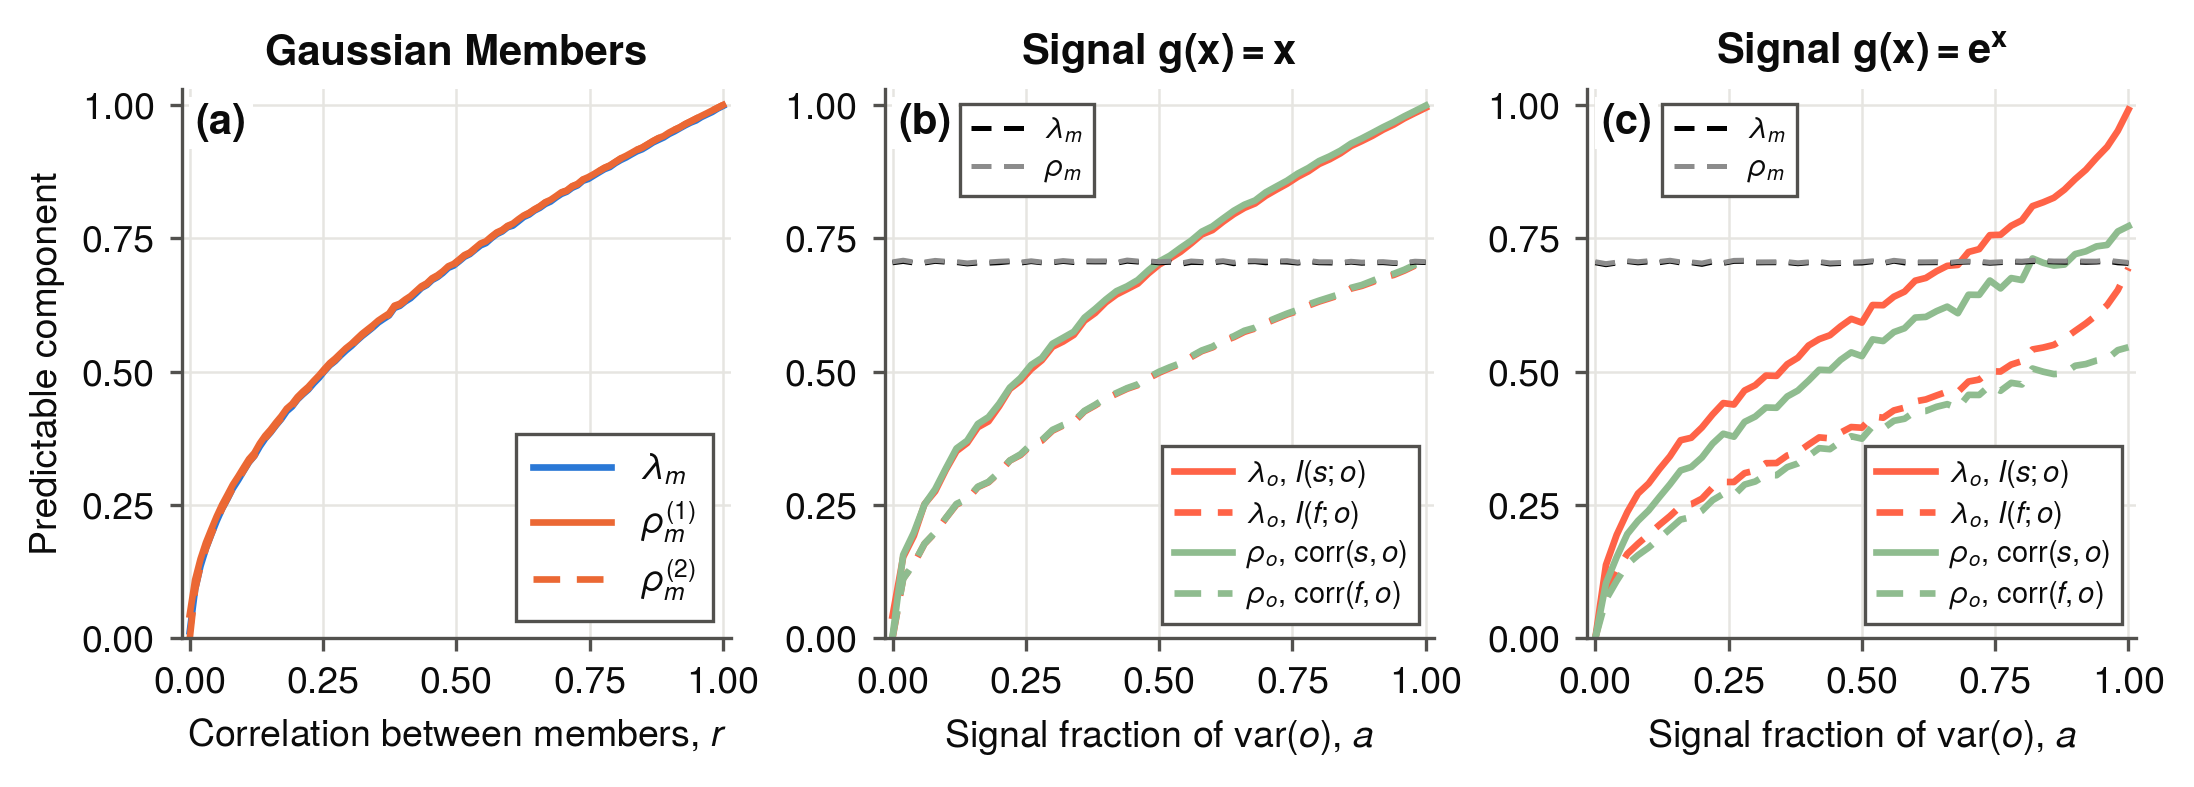
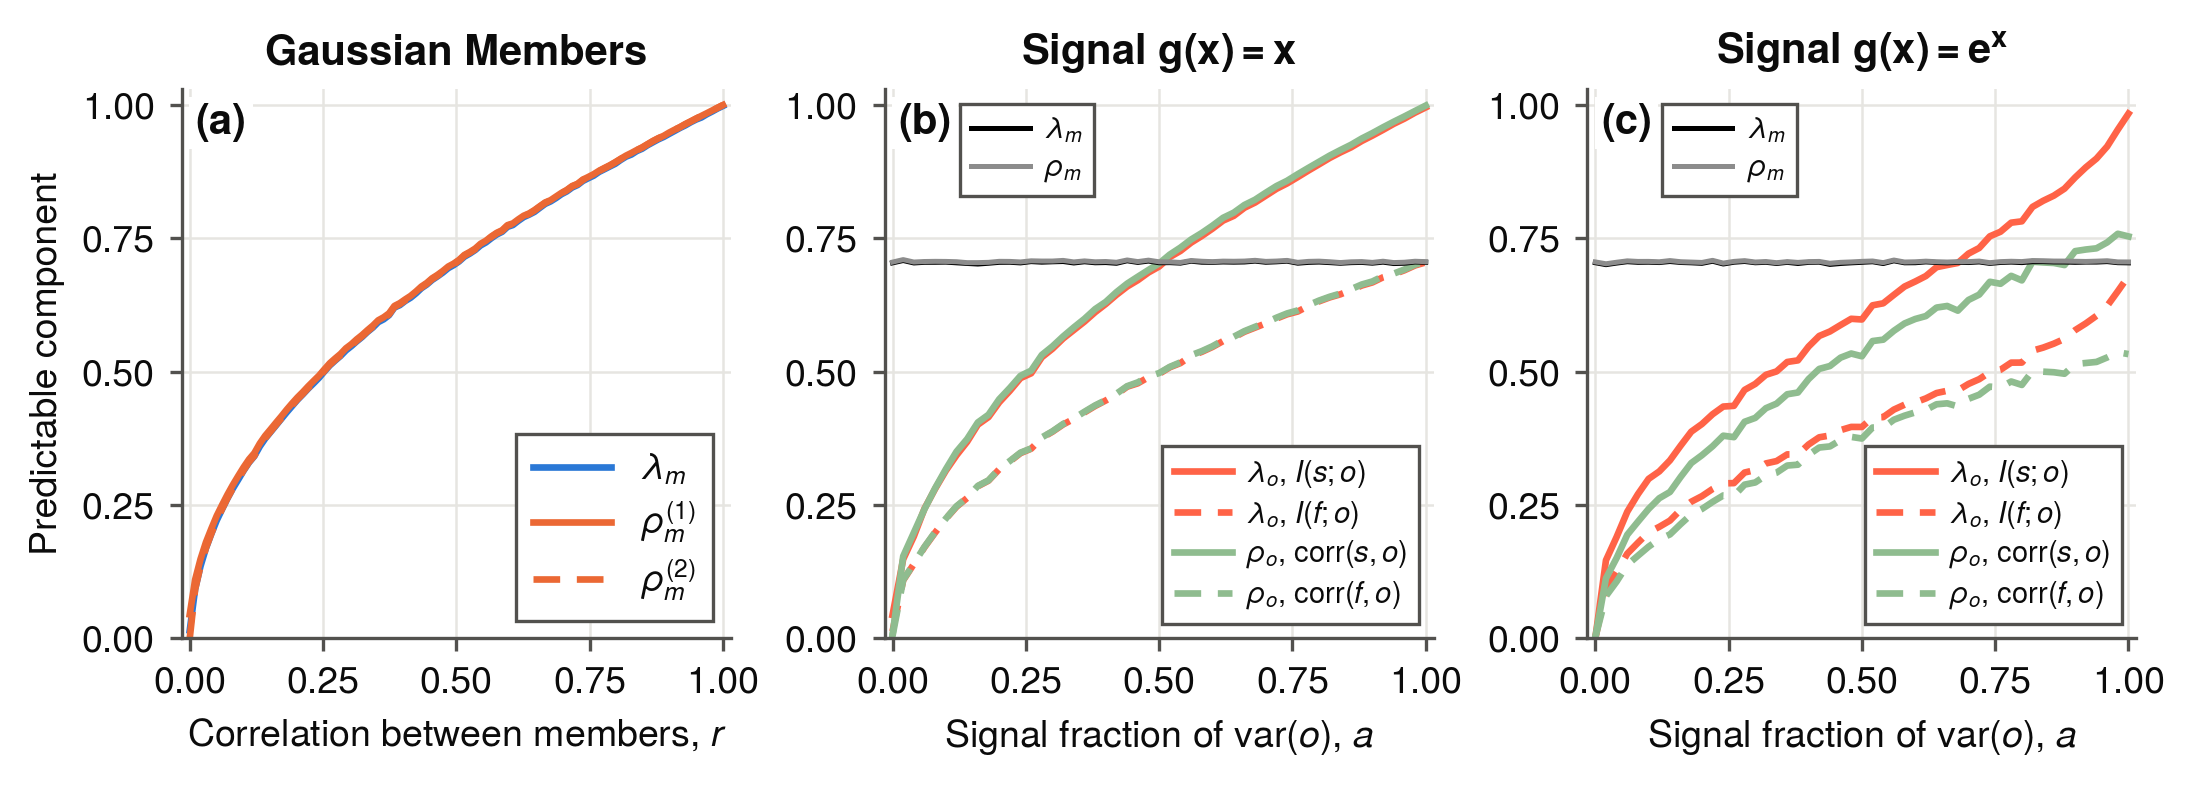
gaussian-array-lambda-rho: T = 40000, solid lambda_m/rho_m reference lines
T = 40000 (N = 500), pool capped at 7 workers (peak 1.5 GB each, ~11 min).
lambda_m tracks rho_m^(2) within 0.003; for g = e^x lambda_o(s) 0.98 vs rho_o
0.75 at a = 1. The ensemble's lambda_m and rho_m in (b, c) are now solid black
and grey.

diff --git a/scripts/gaussian_demo.py b/scripts/gaussian_demo.py
@@ -3,7 +3,7 @@
     python scripts/gaussian_demo.py [--recompute] [--seed S]
         -> figures/main-text/{png,pdf}/gaussian-array-lambda-rho, curves in figures/data/*.npz
 
-N = 500 members of T = 30000 standard-normal draws in every panel; z_0, z_n, x, eta ~ N(0, 1)
+N = 500 members of T = 40000 standard-normal draws in every panel; z_0, z_n, x, eta ~ N(0, 1)
 independent, s the member mean, s_-n the mean of the other N - 1.
 (a) Gaussian members f_n = sqrt(r) z_0 + sqrt(1 - r) z_n, pairwise correlation r (the notebook's
     multivariate draw, in distribution). lambda_m from I(s_-n; f), pooled (the jugaad flattening
@@ -15,11 +15,11 @@ independent, s the member mean, s_-n the mean of the other N - 1.
     lambda_o from I(s; o) and from I(f; o) (o tiled against every member); rho_o = corr(s, o) and
     the pooled corr(f, o). A member is at most sqrt(R_M) correlated with x, so the (f; o) curves
     stop near sqrt(0.5). The ensemble's own lambda_m and rho_m (= rho_m^(2)) are drawn for
-    reference, dashed black and grey; they do not depend on a.
+    reference, solid black and grey; they do not depend on a.
 Bins: Knuth's rule, sized as in the production estimator (o and s_-n on their T values, the
 members on all N T). Every I is the plug-in MI minus the mean of P_NULL time-permutation nulls,
-lambda = sqrt(1 - 2^(-2 I)). Runs in ~8 min with 8 worker processes over the curve points
-($SNP_DEMO_JOBS; each holds ~1 GB at T = 30000, so the default stays inside a 16 GB allocation).
+lambda = sqrt(1 - 2^(-2 I)). Runs in ~12 min with 7 worker processes over the curve points
+($SNP_DEMO_JOBS; each holds ~1.6 GB at T = 40000, so the default stays inside a 16 GB allocation).
 """
 import argparse
 import os
@@ -34,7 +34,7 @@ import style                                                         # noqa: E40
 from jugaad import KNUTH_MAX, knuth_bins, lam_bits, loo_means, mi_bits   # noqa: E402
 
 NAME = "gaussian-array-lambda-rho"
-N, T = 500, 30000
+N, T = 500, 40000
 R, A = np.linspace(0, 1, 100), np.linspace(0, 1, 51)        # panel (a) r; panels (b, c) a
 R_M = 0.5                                                    # (b, c): the members' signal share
 P_NULL = 4
@@ -107,7 +107,7 @@ def point_o(args):
 
 
 def compute(seed):
-    jobs = int(os.environ.get("SNP_DEMO_JOBS", min(8, int(os.environ.get("SLURM_CPUS_ON_NODE", 1)))))
+    jobs = int(os.environ.get("SNP_DEMO_JOBS", min(7, int(os.environ.get("SLURM_CPUS_ON_NODE", 1)))))
     with get_context("fork").Pool(jobs) as pool:
         m = np.array(pool.map(point_m, [(r, [seed, 0, k]) for k, r in enumerate(R)])).T
         res = dict(r=R, a=A, seed=seed, **dict(zip(KEYS_M, m)))
@@ -146,8 +146,8 @@ def plot(d):
         ax.plot(a, lam(d, f"{g}_I_f"), color=LAM_O, lw=1.6, ls=DASH, label=r"$\lambda_o$, $I(f;o)$")
         ax.plot(a, np.abs(d[f"{g}_rho_s"]), color=RHO_O, lw=1.6, label=r"$\rho_o$, corr$(s,o)$")
         ax.plot(a, np.abs(d[f"{g}_rho_f"]), color=RHO_O, lw=1.6, ls=DASH, label=r"$\rho_o$, corr$(f,o)$")
-        ax.plot(a, lam(d, f"{g}_I_m"), color="black", lw=1.2, ls=DASH, label=r"$\lambda_m$")
-        ax.plot(a, d[f"{g}_rho_m_2"], color="0.55", lw=1.2, ls=DASH, label=r"$\rho_m$")
+        ax.plot(a, lam(d, f"{g}_I_m"), color="black", lw=1.2, label=r"$\lambda_m$")
+        ax.plot(a, d[f"{g}_rho_m_2"], color="0.55", lw=1.2, label=r"$\rho_m$")
         ax.set_xlabel("Signal fraction of var($o$), $a$")
         style.panel_label(ax, letter, TITLES[g], inside=True)
         finish(ax)
